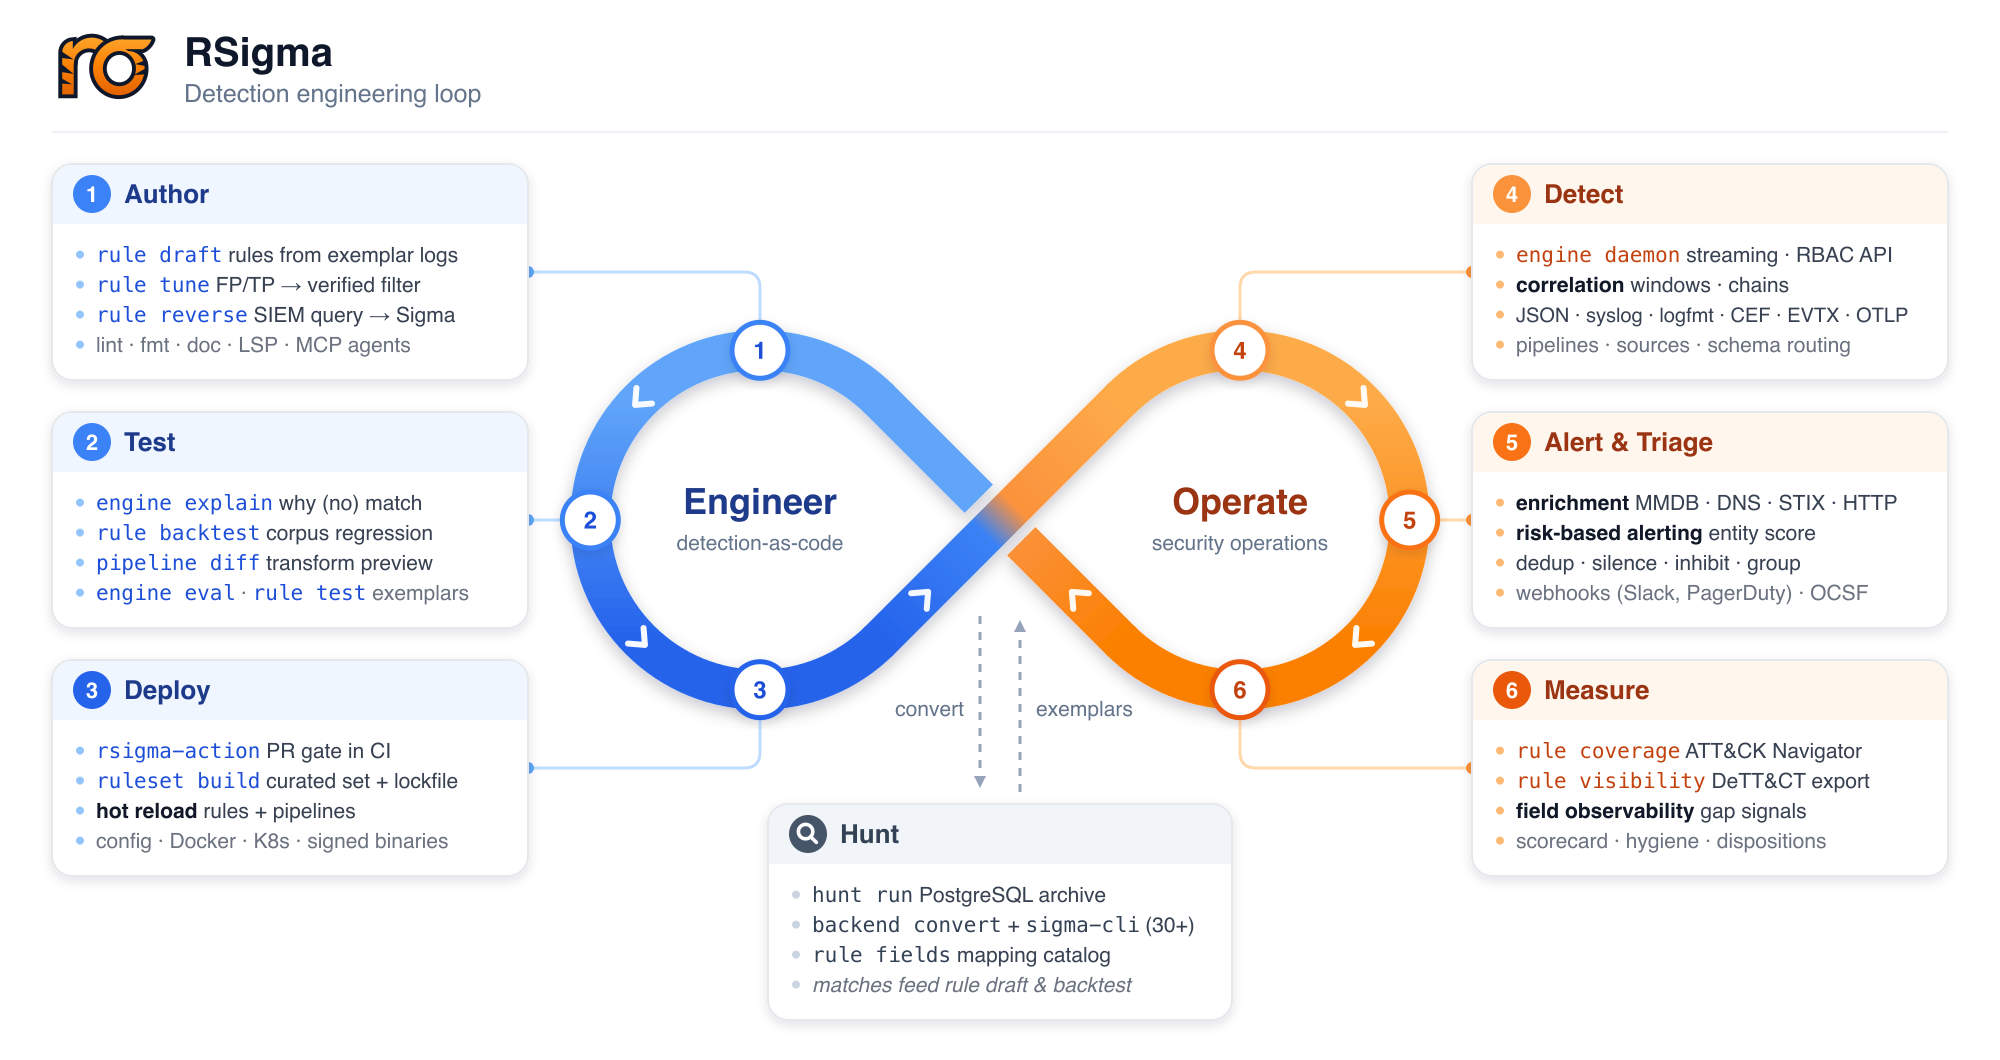
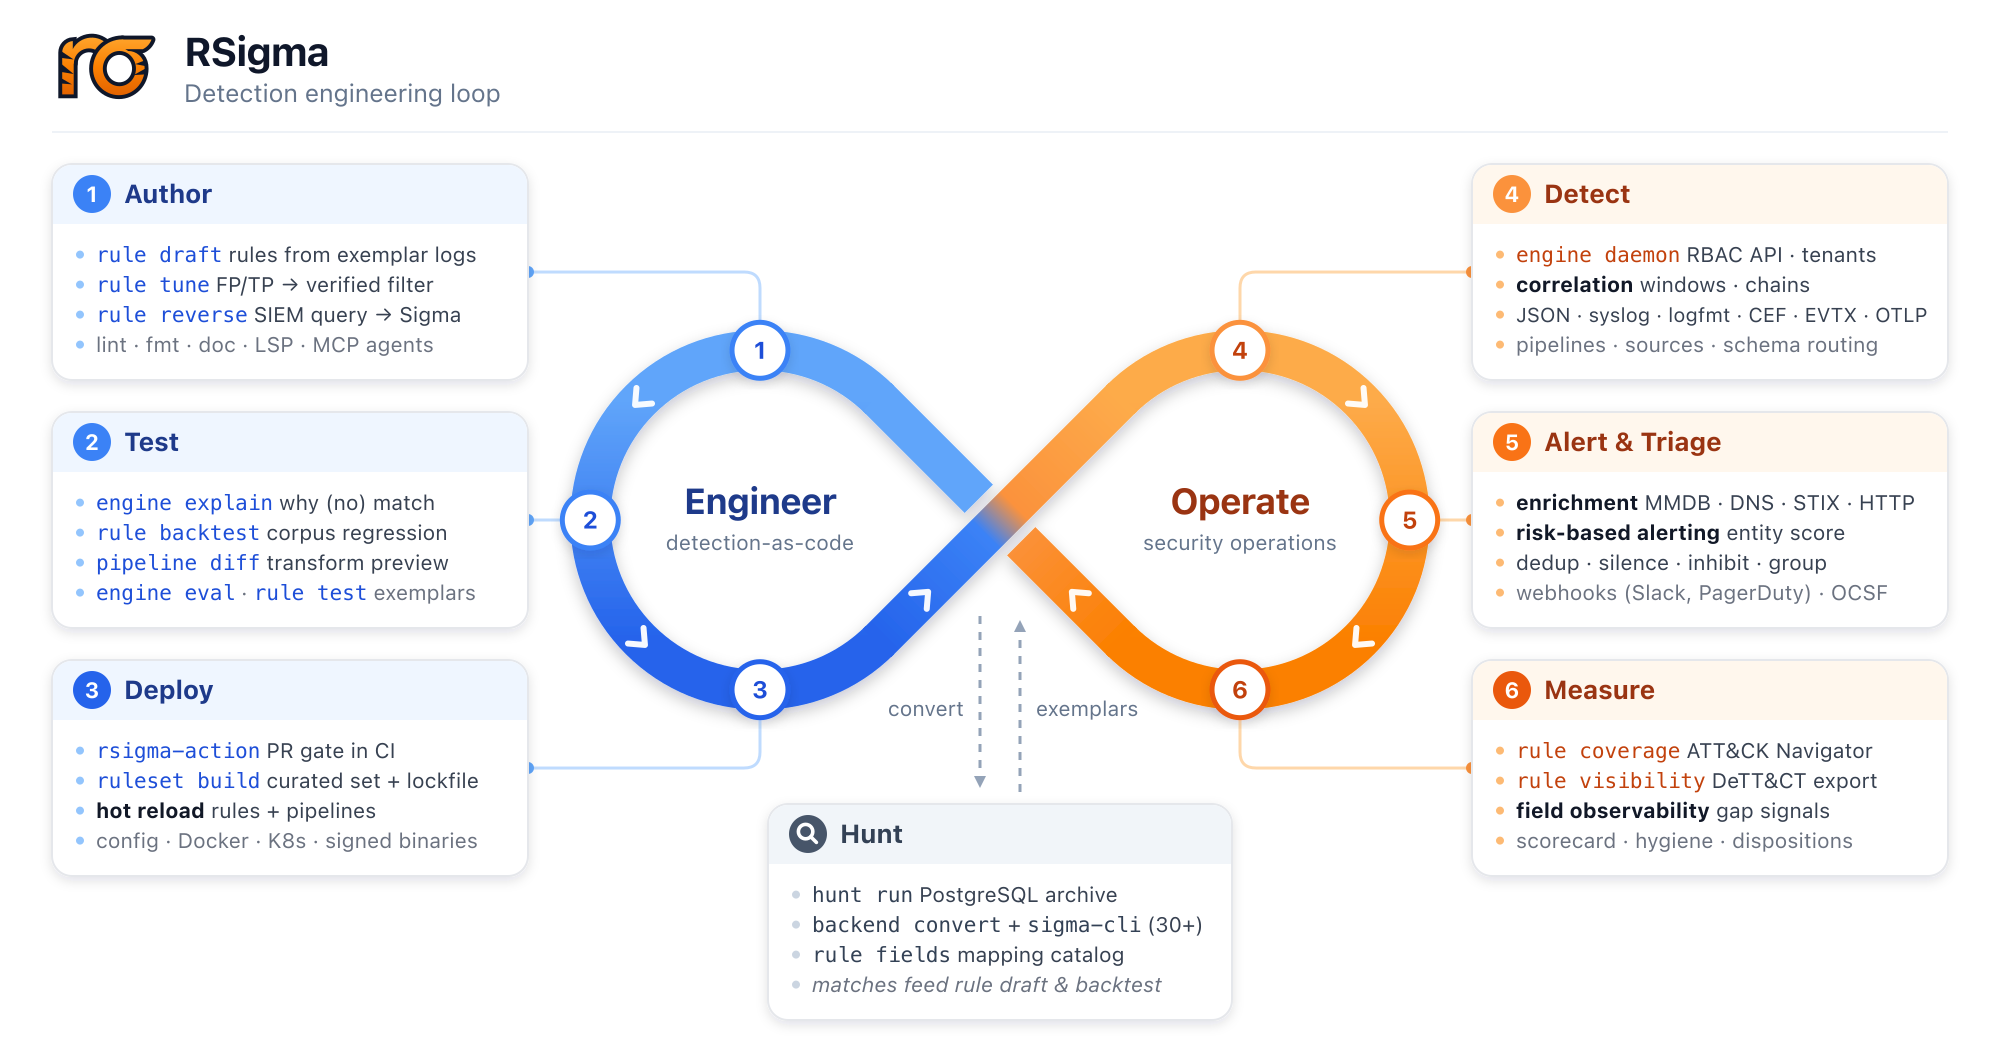
docs: update diagrams for tenancy, watchlists, STIX sources, and several rulesets

diff --git a/CHANGELOG.md b/CHANGELOG.md
@@ -29,6 +29,8 @@ Findings sinks can filter by tenant with `tenant=<id>`, route NATS subjects with
 
 The MCP `create_silence` and `post_disposition` tools accept an optional `tenant` argument. The library gains `TenantId`, `tenant_at`, `WithTenant`, the `_for_tenant` and `_for_tenants` evaluation methods, `TenantStateSnapshot`, `ImportStats`, `Scope::with_tenants`, tenant bindings on rulesets, and three `MetricsHook` methods.
 
+The architecture and detection-loop diagrams show tenancy, several rulesets in one daemon, watchlist and STIX indicator sources, rebuilds on source change, `backend build`, and `rule draft --from-stix`.
+
 **Breaking changes:** `RuleHeader.tenant_id`, `RawEvent.tenant`, `CorrelationSnapshot.tenants`, `GroupStateInfo.tenant`, `RulesetUnit.tenants`, `RulesetStats.tenants`, `CorrelationConfig.require_tenant` and `max_state_entries_per_tenant`, both `ScopeConfig.tenants`, and `RulesetBinding.tenants` need defaults in struct literals, and so does the new `CacheKey.headers_hash`. `SilenceStore::remove_scoped` returns `SilenceRemoval`, whose `Removed` variant carries the removed silence's tenant, and `SilenceStore::try_add` also refuses a duplicate id. `CaptureRing::snapshot_incident` takes the tenant, `DispositionStore::restore` takes the tenancy flag, and `AlertPipelineConfigError` and `RiskConfigError` gain a `NatsSubject` variant. Correlation, alert-pipeline, risk, and disposition snapshots move to version 2, which older releases cannot read. Path-mode output and existing daemon behavior are unchanged with tenancy off.
 
 ### Draft rules from STIX indicators (#731)
